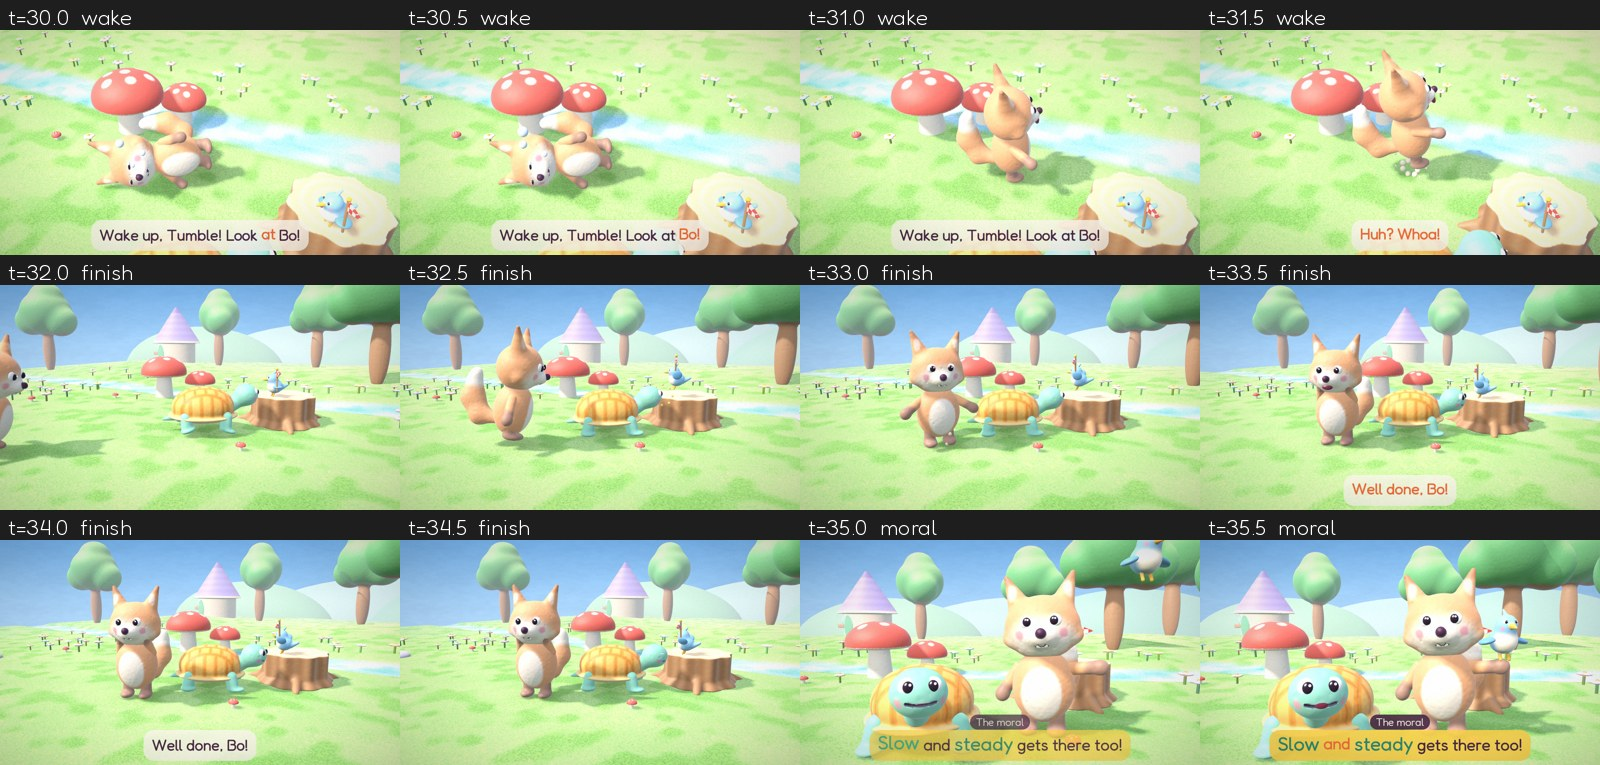
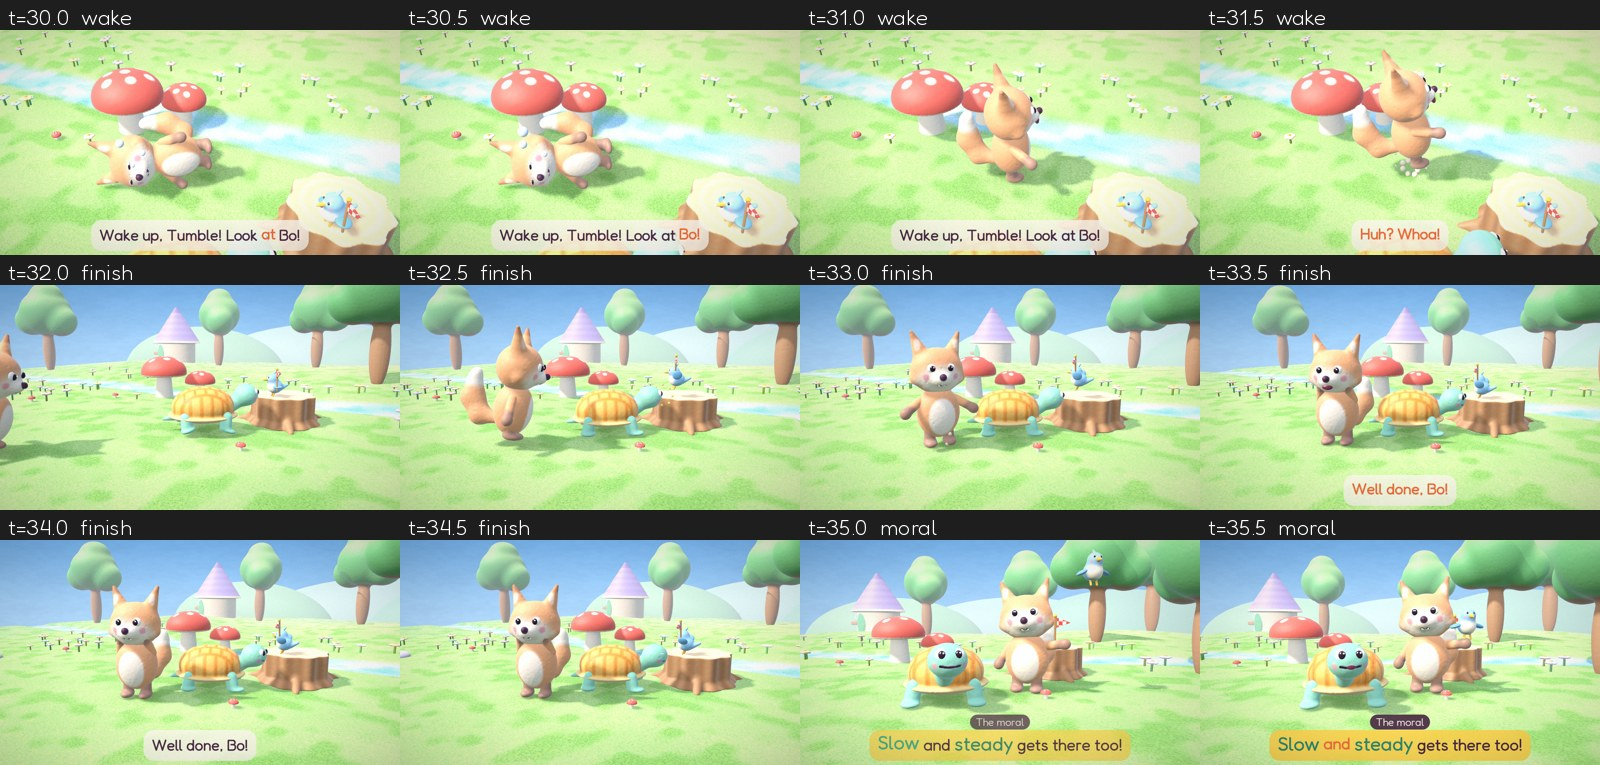
Fable 4: moral/chorus framing for wide, Bo nearer
Claude-Session: https://claude.ai/code/session_014V3fxhp9FCSDpE2UtNdN7a

Changed region(s): [[0.5, 0.6915, 1.0, 1.0]]

diff --git a/batches/01-fables-friendship/fable-04-slow-and-steady-bo/code/render.py b/batches/01-fables-friendship/fable-04-slow-and-steady-bo/code/render.py
@@ -41,7 +41,7 @@ PEB_TOP = 0.07 * 3.0
 FIN_T = C(6.5, 2.2)                                        # Tumble skids in here
 FIN_LOOK = (NRM - DIR * 0.6) / np.linalg.norm(NRM - DIR * 0.6)   # the finish camera's side
 MSPOT = np.array([4.3, -0.85])                              # moral, chorus and button: Tumble here, Bo on his left
-BO_M = np.array([2.8, -0.35])
+BO_M = np.array([3.0, 0.1])
 def _on_course(x, z):
     q = np.array([x, z]) - START; sa, la = float(np.dot(q, DIR)), float(np.dot(q, NRM))
     return -1.5 < sa < 11.5 and abs(la) < 3.0
@@ -333,11 +333,12 @@ def camera(t):
         c = (C(S_TOUCH + 1.0, LANE_B) + FIN_T) / 2
         return fit_cam(np.array([c[0], 0.95, c[1]]), yaw_of(NRM) + lerp(-6, 6, e), 10, 3.0 if not WIDE else 4.2, 1.9, lift=0.03)
     mid = (MSPOT + BO_M) / 2
+    hk = 1.4 if WIDE else 1.0; lf = 0.24 if WIDE else None            # wide: Bo whole and clear of the caption
     if name == "moral":
-        return fit_cam(np.array([mid[0] + 0.2, lerp(1.3, 1.35, e), mid[1]]), lerp(10, 4, e), 6, lerp(2.0, 1.75, e), lerp(1.45, 1.3, e))
+        return fit_cam(np.array([mid[0] + 0.2, lerp(1.3, 1.35, e), mid[1]]), lerp(10, 4, e), 6, lerp(2.0, 1.75, e), lerp(1.45, 1.3, e) * hk, lift=lf)
     if name == "chorus":
-        return fit_cam(np.array([mid[0] + 0.2, 1.2, mid[1]]), 4, 6, 1.9, 1.45)
-    return fit_cam(np.array([mid[0] + 0.1, lerp(1.2, 2.0, e), mid[1]]), 4, lerp(6, 16, e), lerp(1.9, 2.6, e), lerp(1.45, 2.2, e), lift=0.04)
+        return fit_cam(np.array([mid[0] + 0.2, 1.2, mid[1]]), 4, 6, 1.9, 1.45 * hk, lift=lf)
+    return fit_cam(np.array([mid[0] + 0.1, lerp(1.2, 2.0, e), mid[1]]), 4, lerp(6, 16, e), lerp(1.9, 2.6, e), lerp(1.45, 2.2, e) * hk, lift=0.04 if not WIDE else 0.15)
 
 def _cam_clear():
     """drop flowers that any camera passes close to (a flower in front of the lens fills the frame)"""
